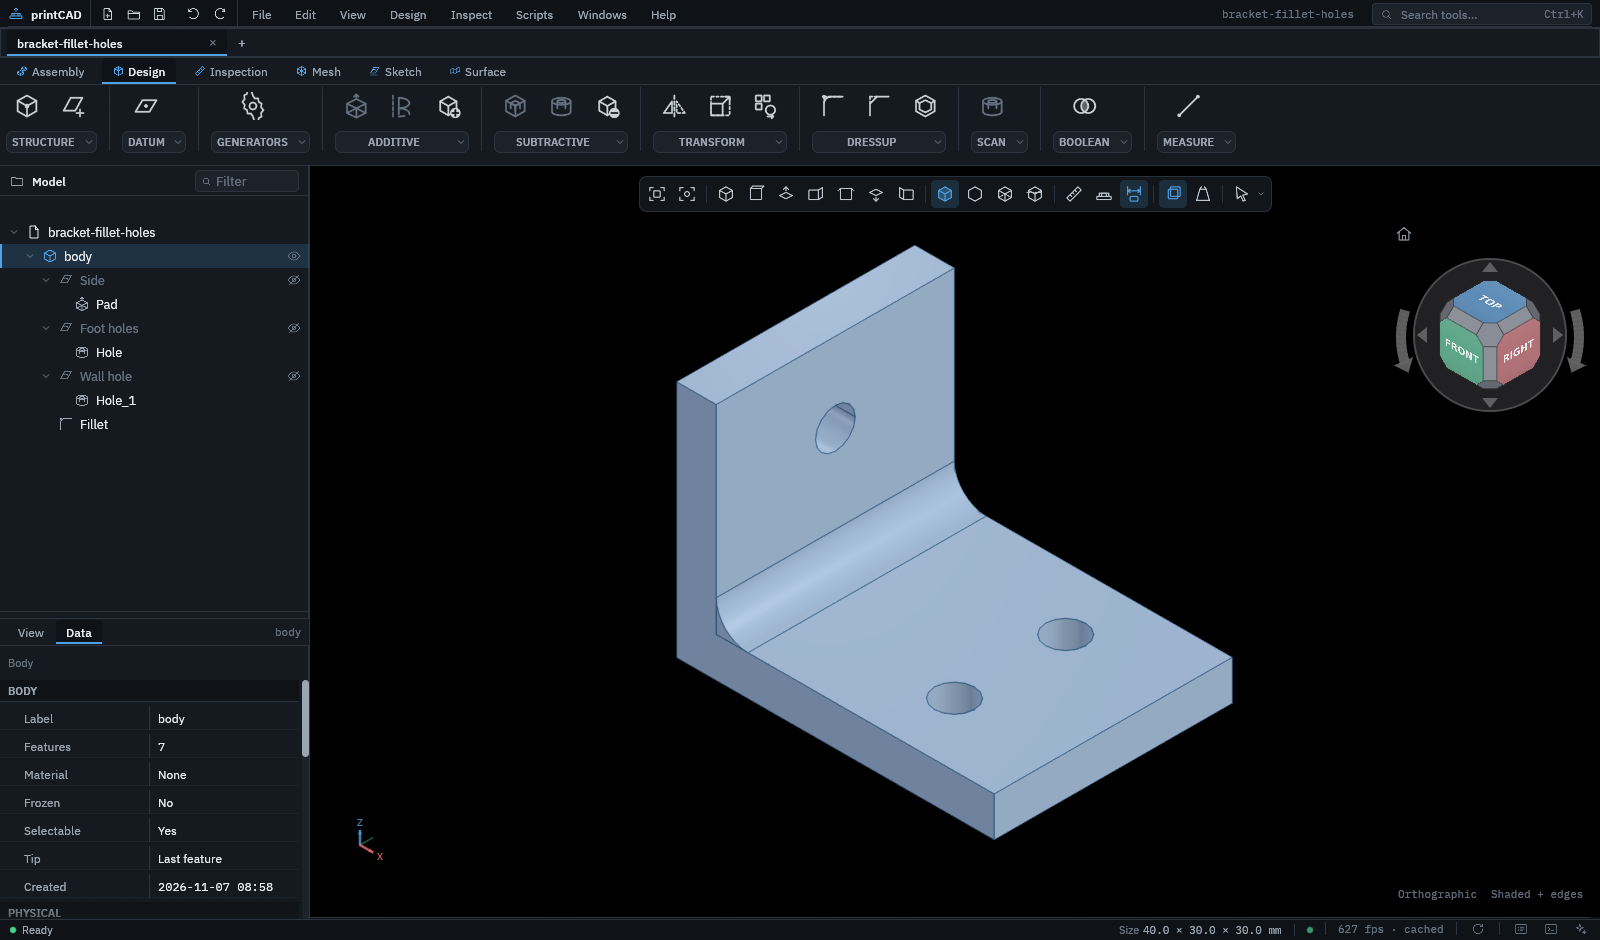
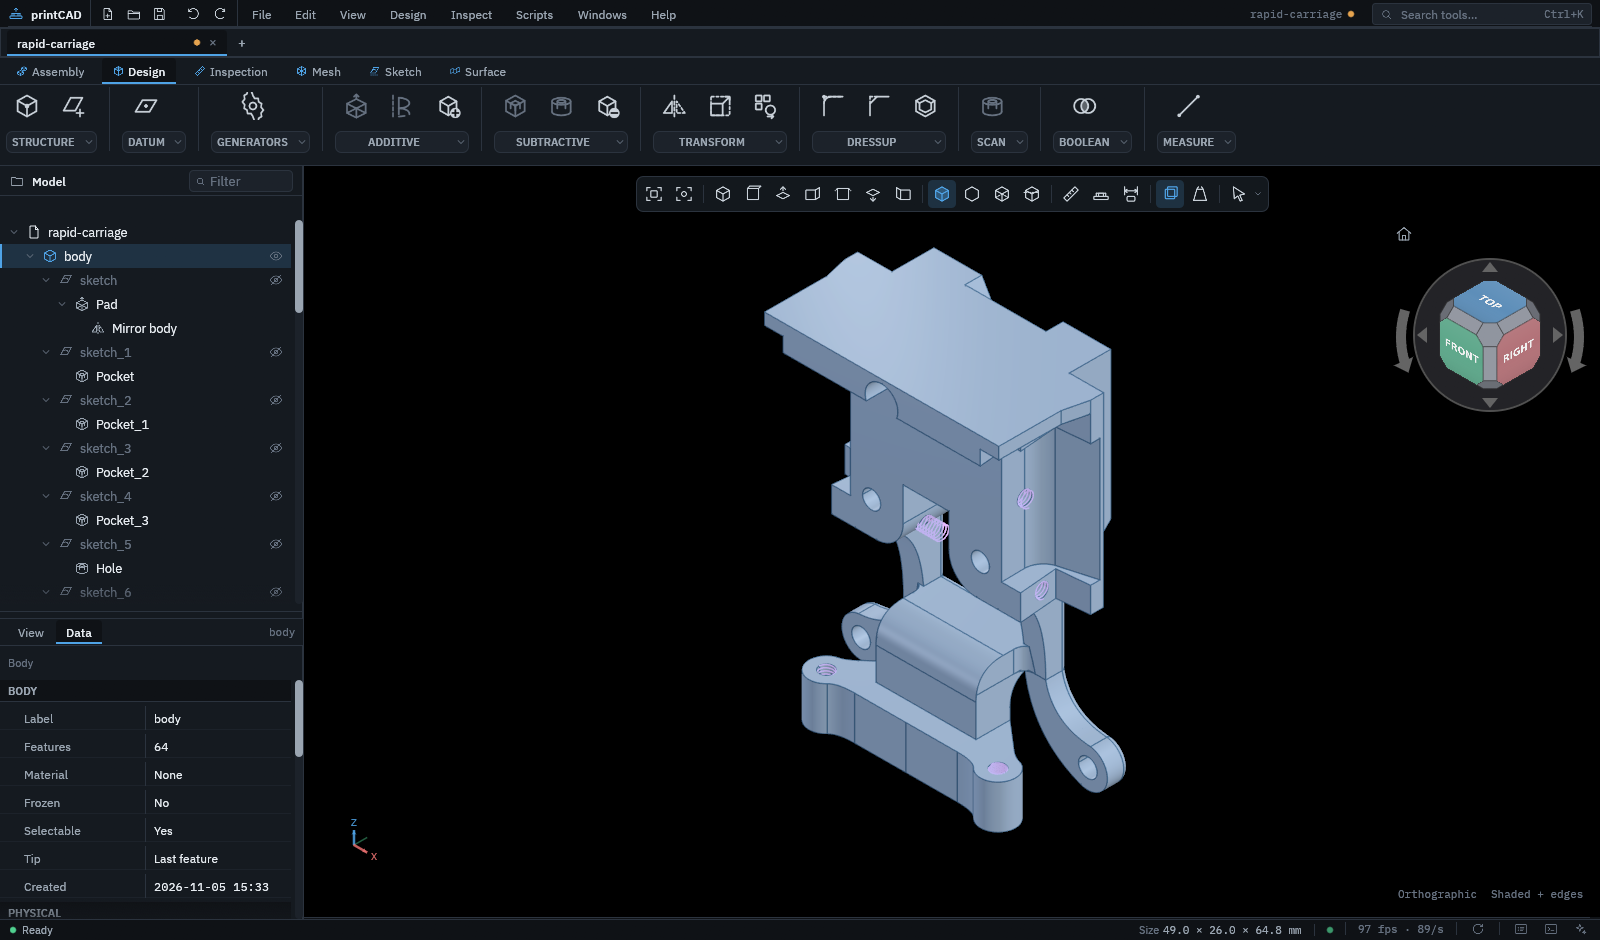
Website and README: the main screenshot shows a toolhead carriage

diff --git a/docs/images/README.md b/docs/images/README.md
@@ -12,4 +12,6 @@ configuration folder (`XDG_CONFIG_HOME`, tool panels and bench tabs on),
 the scene set up by the bench hooks (`PRINTCAD_BENCH_SKETCH=1` or `=pad`,
 `PRINTCAD_OPEN_DOC` on a design from the corpus, `PRINTCAD_BENCH_TASK`,
 `PRINTCAD_BENCH_CLICK` with `PRINTCAD_BENCH_TOOL`), then cropped to the
-panel or the part of the view a guide talks about.
+panel or the part of the view a guide talks about. The website's shot is the
+owner's toolhead carriage, opened from a copy with the body selected and
+annotations off.

diff --git a/README.md b/README.md
@@ -11,7 +11,7 @@ Parametric CAD for designing 3D-printed parts. Linux, Windows and macOS; Rust an
 > **Early development.** The full path from sketch to printable file works,
 > but expect rough edges.
 
-![printCAD with a bracket open: its features in the tree, the part in the view](site/assets/app.png)
+![printCAD with a printer toolhead carriage open: its features in the tree, the part in the view](site/assets/app.png)
 
 <table>
   <tr>
